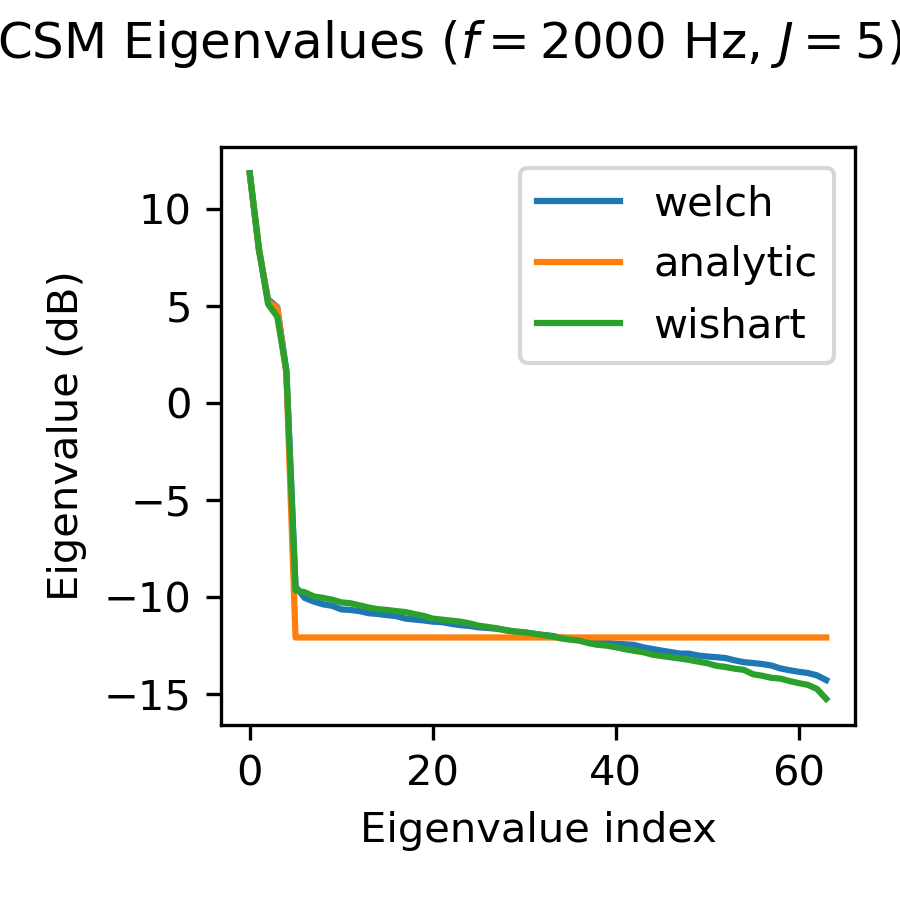
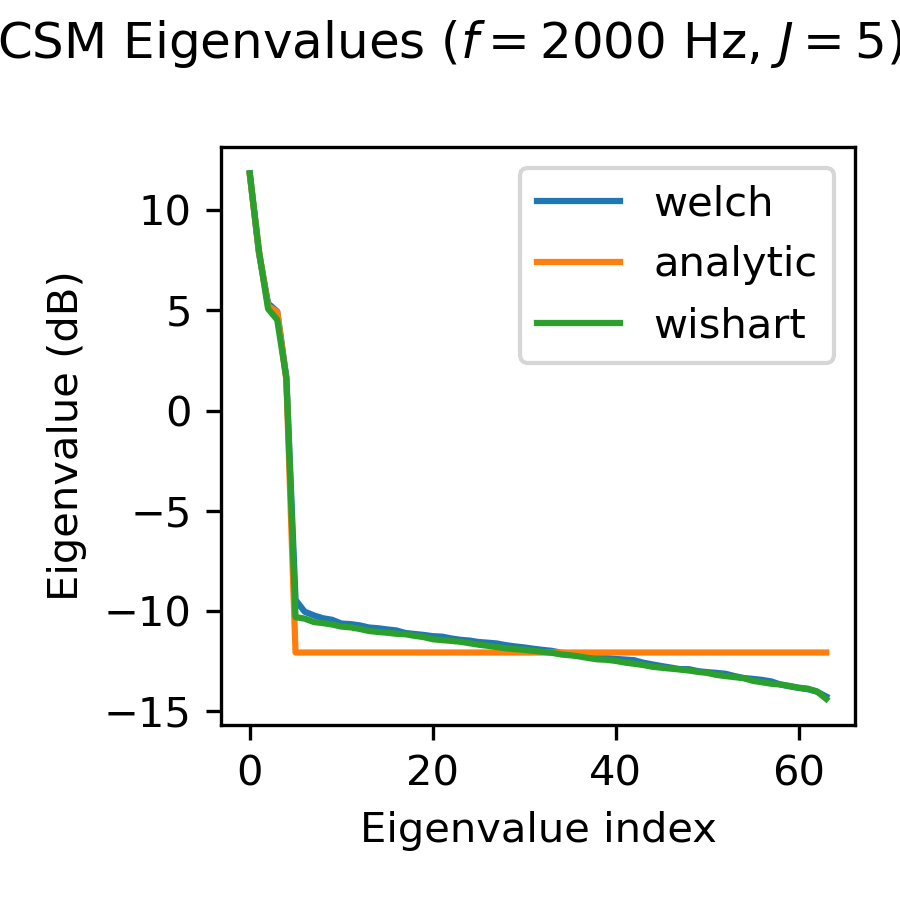
change extend() to extent trait, update wishart eq dof

diff --git a/src/acoupipe/datasets/spectra_analytic.py b/src/acoupipe/datasets/spectra_analytic.py
@@ -4,10 +4,25 @@ from acoular.internal import digest
 from numpy import diag_indices, dot, r_, tril_indices, zeros
 from numpy.random import default_rng
 from scipy.linalg import cholesky
-from traits.api import CArray, CInt, Either, Float, Instance, Int, Property, Trait, cached_property, property_depends_on
-
+from traits.api import CArray, CInt, Either, Float, Instance, Int, Property, Trait, cached_property, property_depends_on, Map
+import numpy as np
 
 class PowerSpectraAnalytic(PowerSpectraImport):
+
+    #: equivalent degrees of freedom
+    df_eq = Property()
+
+    window = Map(
+        {
+            'Rectangular': np.ones,
+            'Hanning': np.hanning,
+            'Hamming': np.hamming,
+            'Bartlett': np.bartlett,
+            'Blackman': np.blackman,
+        },
+        default_value='Rectangular',
+    )
+
     num_samples = CInt
 
     sample_freq = Float(1.0, desc='sampling frequency')
@@ -81,6 +96,26 @@ class PowerSpectraAnalytic(PowerSpectraImport):
         ],
     )
 
+    @property_depends_on('num_samples, block_size, overlap, window')
+    def _get_df_eq(self):
+        w = self.window_(self.block_size)
+        if self.overlap == 'None':
+            D = self.block_size
+        else:
+            D = int(self.block_size / self.overlap_)
+        K = int(self.num_blocks)
+        denom = (w @ w) ** 2
+        fac = 0.0
+        for j in range(1, K):
+            shift = j * D    
+            num = w[:-shift] @ w[shift:]   # sum_{k=0}^{L-shift-1} w[k] w[k+shift]
+            if num == 0.0:
+                break
+            rho = (num * num) / denom
+            rho *= (K - j) / K
+            fac += rho
+        return K / (1 + 2 * fac)
+
     @cached_property
     def _get_digest(self):
         return digest(self)
@@ -123,7 +158,7 @@ class PowerSpectraAnalytic(PowerSpectraImport):
                 raise ValueError(msg)
 
     def _sample_wishart(self, scale, rng):
-        df = int(self.num_blocks)
+        df = self.df_eq
         dim = scale.shape[0]
         n_tril = dim * (dim - 1) // 2
         C = cholesky(scale, lower=True)

diff --git a/docs/source/contents/script/features.py b/docs/source/contents/script/features.py
@@ -22,7 +22,7 @@ for i, feature in enumerate(["targetmap_analytic", "targetmap_estimated"]):
                                         split="training", size=1, f=[2000], num=0, start_idx=1)
     data_sample = next(data_generator)
 
-    extent = dataset.config.grid.extend()
+    extent = dataset.config.grid.extent
 
     # sound pressure level
     Lm = ac.L_p(data_sample[feature]).T
@@ -50,7 +50,7 @@ for i, mode in enumerate(["welch", "analytic", "wishart"]):
                                         split="training", size=1, f=[2000], num=0, start_idx=1)
     data_sample = next(data_generator)
 
-    extent = dataset.config.grid.extend()
+    extent = dataset.config.grid.extent
 
     # sound pressure level
     Lm = ac.L_p(data_sample["sourcemap"]).T
@@ -85,7 +85,7 @@ for i, mode in enumerate(["welch", "analytic", "wishart"]):
                                             split="training", size=1, f=[2000], num=0, start_idx=1)
         data_sample = next(data_generator)
 
-        extent = dataset.config.grid.extend()
+        extent = dataset.config.grid.extent
 
         # sound pressure level
         if j == 0:
@@ -121,7 +121,7 @@ for i, mode in enumerate(["welch", "analytic", "wishart"]):
                                         split="training", size=1, f=[2000], num=0, start_idx=1)
     data_sample = next(data_generator)
 
-    extent = dataset.config.grid.extend()
+    extent = dataset.config.grid.extent
 
     # sound pressure level
     csmtriu = np.real(data_sample["csmtriu"][0])
@@ -147,7 +147,7 @@ for mode in ["welch", "analytic", "wishart"]:
                                         split="training", size=1, f=[2000], num=0, start_idx=1)
     data_sample = next(data_generator)
 
-    extent = dataset.config.grid.extend()
+    extent = dataset.config.grid.extent
 
     # sound pressure level
     eigmode = data_sample["eigmode"][0]

diff --git a/src/acoupipe/datasets/synthetic.py b/src/acoupipe/datasets/synthetic.py
@@ -566,15 +566,13 @@ class DatasetSyntheticConfig(ConfigBase):
                 source=source,
                 **self.fft_params,
             )
-        fft_params = deepcopy(self.fft_params)
-        fft_params.pop('window')
         return PowerSpectraAnalytic(
             mode=self.mode,
             num_samples=self.signal_length * self.fs,
             sample_freq=self.fs,
             steer=self.source_steer,
             cached=False,
-            **fft_params,
+            **self.fft_params,
         )
 
     def create_mic_noise_signal(self):

diff --git a/examples/point_source_example.py b/examples/point_source_example.py
@@ -64,7 +64,7 @@ for _i in range(5):
     Lm = ac.L_p(pm)
     # plot
     figure()
-    imshow(Lm.T, origin='lower', vmin=Lm.max() - 15, extent=rg.extend(), interpolation='bicubic')
+    imshow(Lm.T, origin='lower', vmin=Lm.max() - 15, extent=rg.extent, interpolation='bicubic')
     for src in sm.sources:
         (x, y, _) = src.loc
         plot(x, y, marker='x', color='red')

diff --git a/docs/source/contents/script/experimental.py b/docs/source/contents/script/experimental.py
@@ -17,7 +17,7 @@ for i, scenario in enumerate(["A1", "A2", "R2"]):
                                         split="training", size=1, f=[f], num=0, start_idx=1)
     data_sample = next(data_generator)
 
-    extent = dataset.config.grid.extend()
+    extent = dataset.config.grid.extent
 
     # sound pressure level
     Lm = ac.L_p(data_sample["sourcemap"]).T

diff --git a/src/acoupipe/datasets/experimental.py b/src/acoupipe/datasets/experimental.py
@@ -171,7 +171,7 @@ class DatasetMIRACLE(DatasetBase):
         import matplotlib.pyplot as plt
         import numpy as np
 
-        extent = dataset.config.grid.extend()
+        extent = dataset.config.grid.extent
 
         # sound pressure level
         Lm = ac.L_p(data_sample['sourcemap']).T

diff --git a/docs/source/contents/script/quickstart.py b/docs/source/contents/script/quickstart.py
@@ -13,7 +13,7 @@ data_sample = next(data_generator)
 import acoular as ac
 import matplotlib.pyplot as plt
 
-extent = dataset.config.grid.extend()
+extent = dataset.config.grid.extent
 
 # sound pressure level
 Lm = ac.L_p(data_sample["sourcemap"]).T

diff --git a/docs/source/contents/datasets/quickstart.rst b/docs/source/contents/datasets/quickstart.rst
@@ -69,7 +69,7 @@ Now, the data can be plotted, e.g. by using the `matplotlib`_ library:
     import matplotlib.pyplot as plt
     import numpy as np
 
-    extent = dataset.config.grid.extend()
+    extent = dataset.config.grid.extent
 
     # sound pressure level
     Lm = ac.L_p(data_sample['sourcemap']).T
